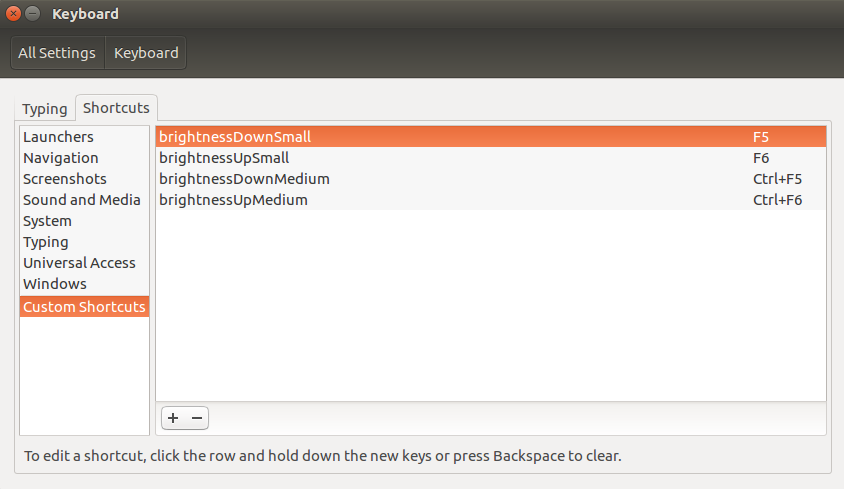
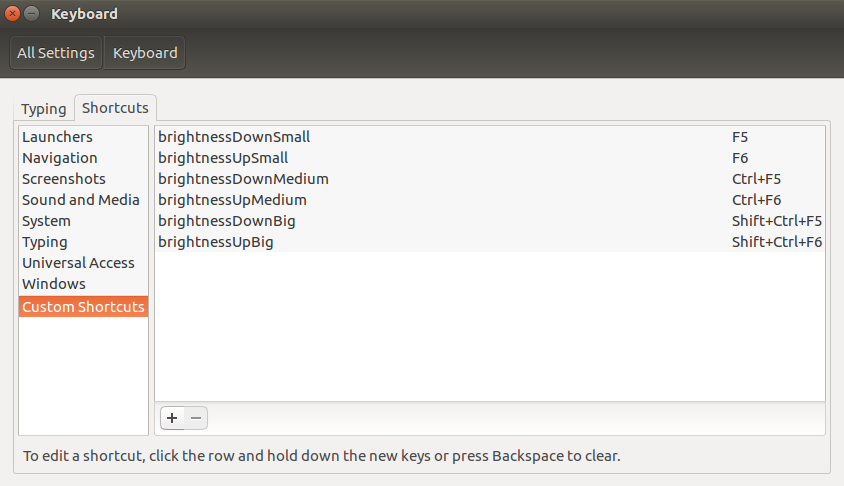
added desktop notification support

diff --git a/set_hotkeys.py b/set_hotkeys.py
@@ -23,7 +23,10 @@ try:
     for line in f:
       if line[0]=="#":
         continue
-      name, command, key=line.strip().split(" ")
+      try:
+        name, command, key=line.strip().split(" ")
+      except:
+        continue
       if any(map(lambda x: key in x,current_keys)):
         print("HOTKEY ERROR: The hotkey-combination '%s' is already binded to command '%s'. Replace it in the config file '%s'"%(key,key_map[key],keys_list))
         continue

diff --git a/README.md b/README.md
@@ -1,11 +1,11 @@
 # linuxBrightnessControl
 Script to control screen brightness for Linux
 
-If your machine does not support native keyboard brightness control, this script can be binded as a custom hotkey.
+If your machine does not support native keyboard *brightness control*, this script can be *binded* as a *custom hotkey*, complete with *desktop notifications*.
 
-## Configure
+## Installation
 
-To use the script, some configuration is needed. Run the commands bellow in the shell, from the directry containing the scripts.
+Before usage, some configuration is needed. Run the commands bellow in the shell, from the directory containing the scripts.
 
 ```bash
 sudo chmod u+x config.sh
@@ -17,17 +17,19 @@ The script will (optionally) also execute the ```set_hotkeys.py``` script, that 
 ### Example: Default keybindings in keys.config
 
 The format of a line in the file is
-```name factor key_comb``` where
+```name change key_comb``` where
 * name: Name of the command
-* factor: Factor by which the current brightness is to be multiplied
+* change: Change to be applied to the current brightness level (ex. +0.1 or -0.1)
 * key_comb: The hotkey combination to be used
 
 The default bindings in the ```keys.config``` are
   
->brightnessDownSmall 0.9 F5  
->brightnessUpSmall 1.1 F6  
->brightnessDownMedium 0.75 <Control>F5  
->brightnessUpMedium 1.25 <Control>F6
+>brightnessDownSmall -0.05 F5  
+>brightnessUpSmall +0.05 F6  
+>brightnessDownMedium -0.1 <Control>F5  
+>brightnessUpMedium +0.1 <Control>F6  
+>brightnessDownBig -0.25 <Control><Shift>F5  
+>brightnessUpBig +0.25 <Control><Shift>F6  
 
 After running the script with the default ```keys.config```, the added hotkeys can be found in ```System Settings -> Keyboard -> Shortcuts -> Custom Shortcuts```
 
@@ -37,14 +39,14 @@ Note that you can change the contents of the ```keys.config``` file to the bindi
 
 ## Lone use of script
 
-To decrease the brightness by a factor of x (0.9 in the bellow example) run
+To decrease the brightness by x (0.1 in the bellow example) run
 
 ```bash
-./brightness.sh 0.9
+./brightness.sh -0.1
 ```
 
-To increase the brightness by a factor of x (1.1 in the bellow example) run
+To increase the brightness by x (0.1 in the bellow example) run
 
 ```bash
-./brightness.sh 1.1
+./brightness.sh +0.1
 ```
